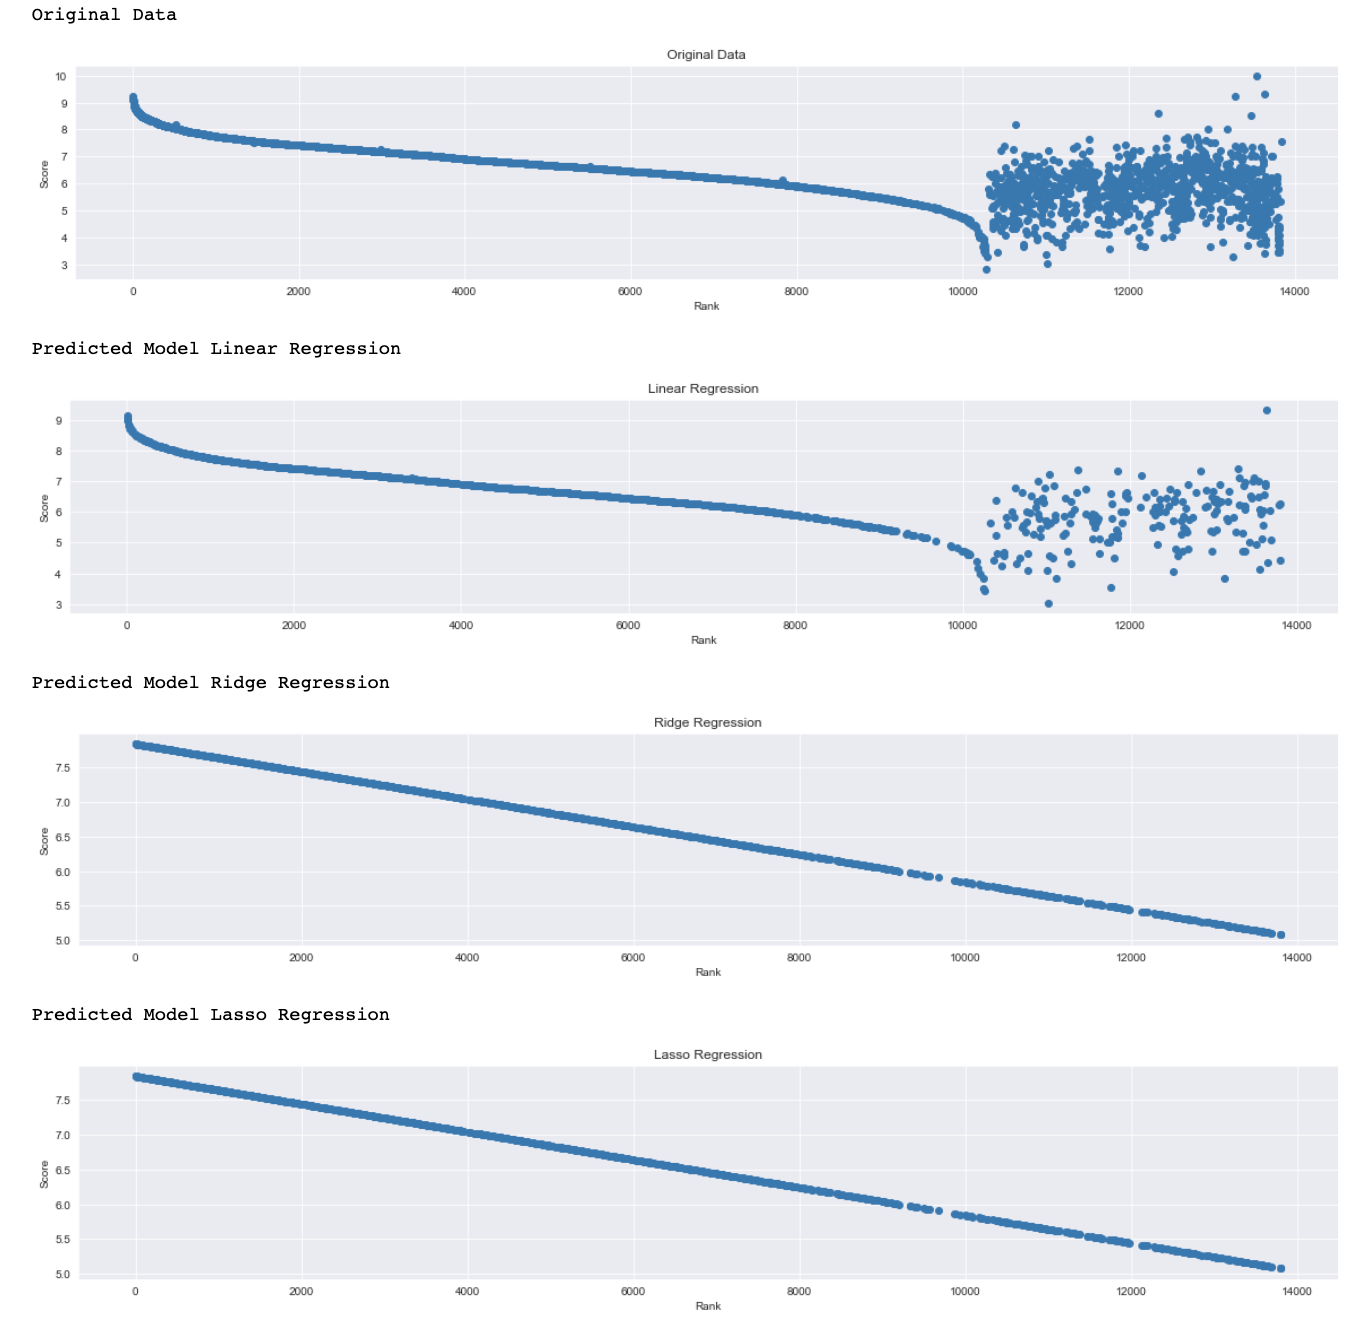
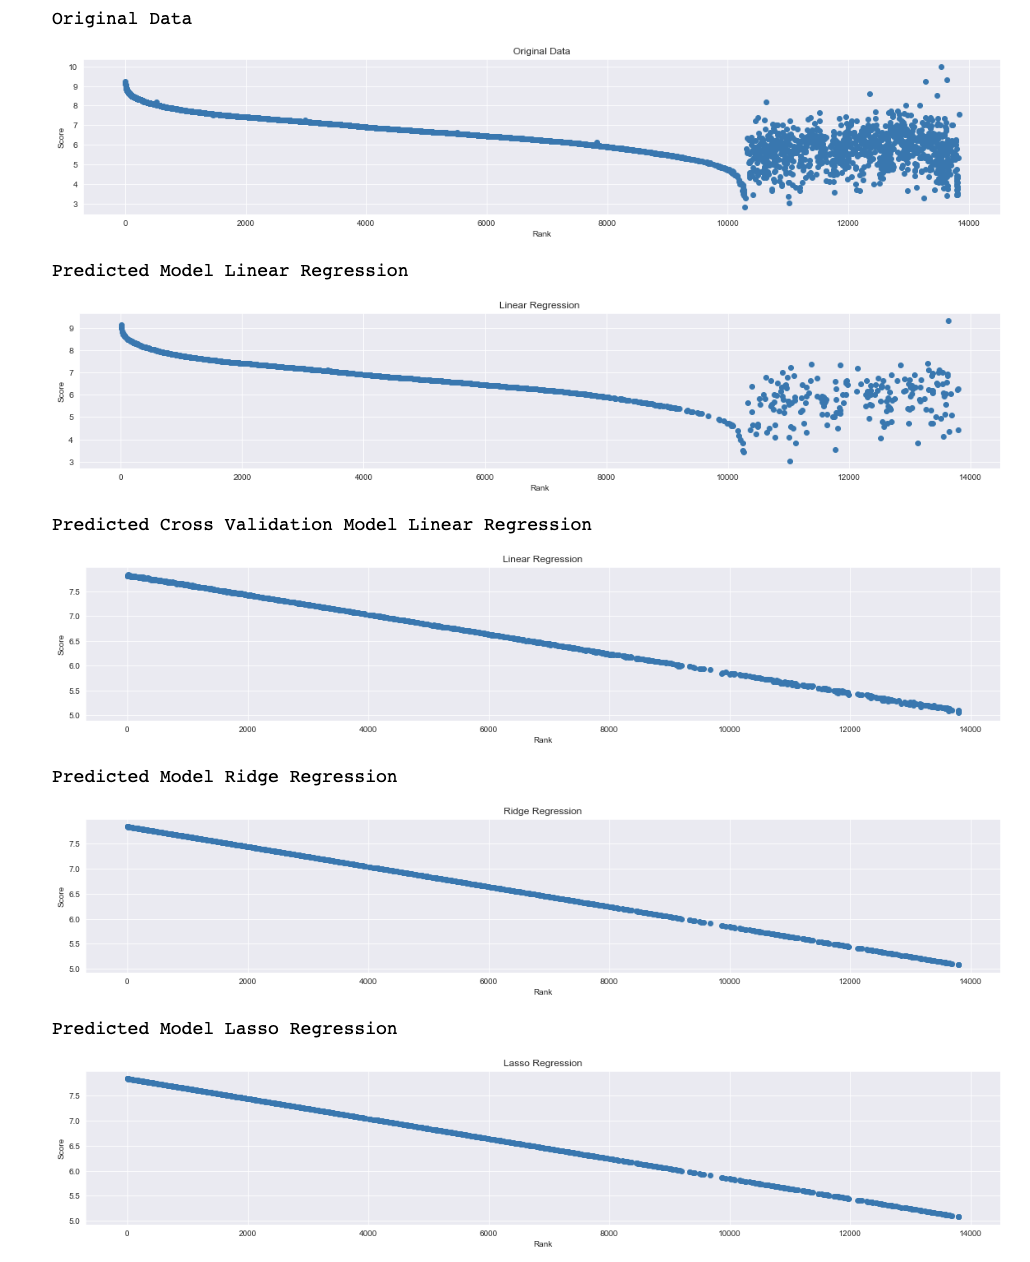
added cross val of linear regression and to readme

diff --git a/README.md b/README.md
@@ -35,7 +35,7 @@ Rank against Score of a Anime
 * Python3.8
 * Jupyter Notebook 6.0.0
 * A few imports into the Jupyter Notebook:
-
+\n
 pandas
 numpy
 matplotlib.pyplot
